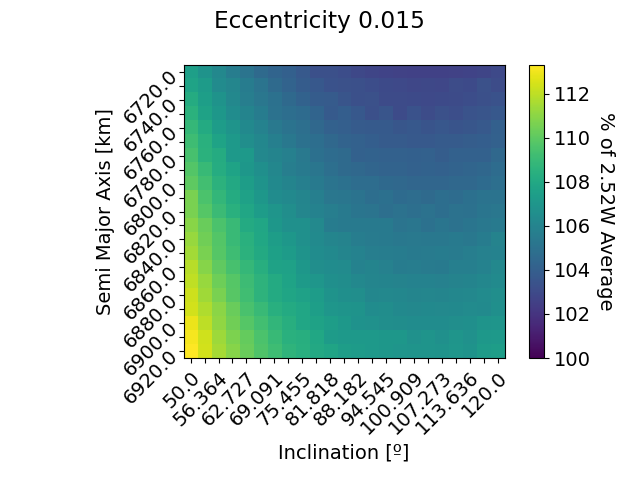
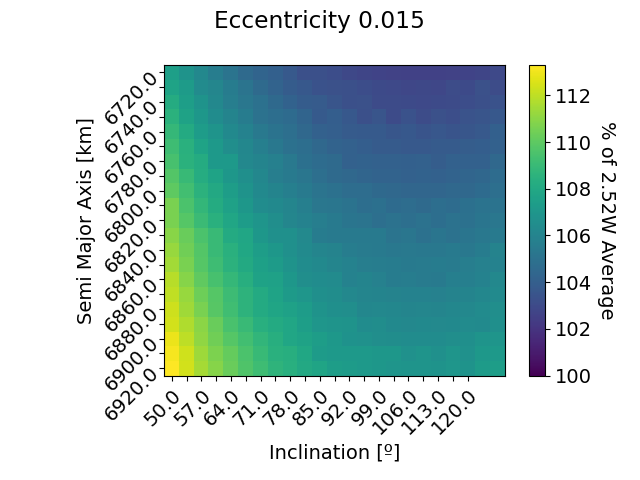
Few extra runs
+ Runs 8 and 9

- Removed old plotting code in main

Changed region(s): [[0.125, 0.125, 0.9688, 0.9688], [0.8438, 0.1562, 0.9375, 0.2188], [0.1562, 0.8438, 0.1875, 0.875]]

diff --git a/Power_SIM_2024/tudat_implementation/main.py b/Power_SIM_2024/tudat_implementation/main.py
@@ -44,7 +44,7 @@ if __name__ == "__main__":
     #               4 * solar_cell, 2 * solar_cell, 2 * solar_cell]
     # TODO: Better estimate for maximum power production for each cell.
     solar_cell = 1.08 # [Watt]
-    solarArray = [4*solar_cell, 4*solar_cell, 2*solar_cell,
+    solarArray = [4*solar_cell, 4*solar_cell, 0*solar_cell,
                    4*solar_cell, 2*solar_cell, 0*solar_cell]
     
     # Total tumbling power based on the sphere of quaternions method in
@@ -81,7 +81,7 @@ if __name__ == "__main__":
     # Simulation range for orbital power averages. 
     semiMajorVals = np.linspace(start= 6720e3, stop= 6920e3, num= 21)
     eccVals = np.linspace(start= 0.00, stop= 0.015, num= 2)
-    incVals = np.linspace(start= 50.0, stop= 120.0, num= 21)
+    incVals = np.linspace(start= 60.0, stop= 120.0, num= 21)
 
     totalProps = len(semiMajorVals) * len(eccVals) * len(incVals)
     currentProps = 0
@@ -188,15 +188,14 @@ if __name__ == "__main__":
             filename = valuesDir + f"orbit_avg_eccentricity{eccentricity}.csv"
             np.savetxt(filename, orbitAverages[:,:,i], delimiter= ",")
 
-    ### Plots power average data. 
-    # TODO: Put this in its own separate function. 
+    ### Plots power average data.
     if plotAvgs := True:
         plot_average_heatmap(
             eccVals= eccVals,
             incVals= incVals,
             semiMajorVals= semiMajorVals,
             dataDir= dataDir,
-            runCount= 7,
+            runCount= 10,
             showUncompliant= False,
             powerReq= 2.52
         )
@@ -368,29 +367,6 @@ if __name__ == "__main__":
 
         plt.show()
     
-    ######      PLOTTING
-    if plot_data := False:
-
-        #######  Plotting Shenanigans  #######
-        # TODO: Put this in its own little python file.  
-        plt.rcParams.update({'font.size': 18})
-
-        #ax = plt.figure().add_subplot(projection='3d')
-        ax1 = plt.figure().add_subplot()
-
-        times = state_array[:,0] / 60**2
-
-        #ax.plot(state_array[:,1], state_array[:,2], state_array[:,3])
-
-        ax1.plot(times, dependent_array[:,1])
-
-        #ax.set_zlim(-5e6, 5e6)
-        #ax.set_xlim(-5e6, 5e6)
-        #ax.set_ylim(-5e6, 5e6)
-
-        plt.show()
-
-        #######  ---  #######
 
 
 
